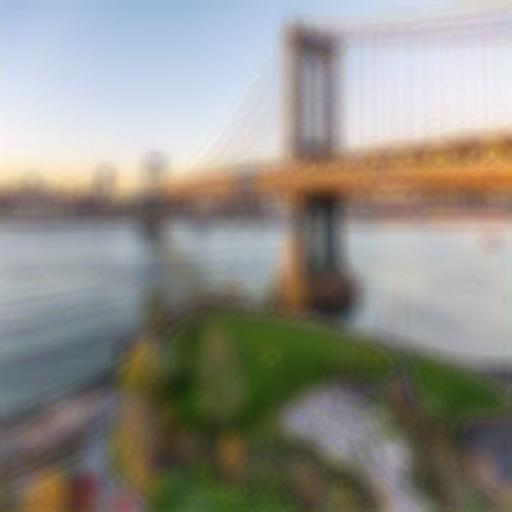
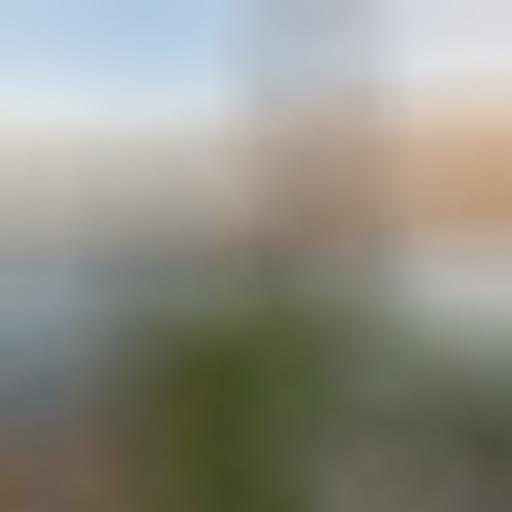
fixed issues

diff --git a/style_transfer/utils/optimizer.py b/style_transfer/utils/optimizer.py
@@ -68,8 +68,8 @@ def run_optimization(model, input_img, content_losses, style_losses,
             loss.backward()
             
             # Store loss history
-            loss_history['content'].append(weighted_content_loss.item())
-            loss_history['style'].append(weighted_style_loss.item())
+            loss_history['content'].append(weighted_content_loss)
+            loss_history['style'].append(weighted_style_loss)
             loss_history['tv'].append(weighted_tv_loss if isinstance(weighted_tv_loss, (int, float)) else weighted_tv_loss.item())
             loss_history['total'].append(loss.item())
 
@@ -81,7 +81,7 @@ def run_optimization(model, input_img, content_losses, style_losses,
             run[0] += 1
             if run[0] % 50 == 0:
                 print(f"Step {run[0]}: Style Loss: {weighted_style_loss:.4f}, "
-                      f"Content Loss: {weighted_content_loss.item():.4f}, "
+                      f"Content Loss: {weighted_content_loss:.4f}, "
                       f"TV Loss: {weighted_tv_loss if isinstance(weighted_tv_loss, (int, float)) else weighted_tv_loss.item():.4f}")
 
             return loss

diff --git a/main.py b/main.py
@@ -11,6 +11,7 @@ def api():
         content_image = request.files.get("contentImage")
         style_intensity = request.form.get("styleIntensity")
         use_transformer = request.form.get("useTransformer") != None
+        print('thresh',float(style_intensity)/100)
         if use_transformer:
             model="vit"
         else:
@@ -24,7 +25,7 @@ def api():
         if content_image:
             content_image.save("static/uploaded/content/content_uploaded.jpg")
         if style_image and content_image:
-            style_transfer(style_path="static/uploaded/style/style_uploaded.jpg", content_path="static/uploaded/content/content_uploaded.jpg",output_path="static/uploaded/output/output.jpg", style_threshold=float(style_intensity)/100,num_steps=2,model_type=model)
+            style_transfer(style_path="static/uploaded/style/style_uploaded.jpg", content_path="static/uploaded/content/content_uploaded.jpg",output_path="static/uploaded/output/output.jpg", style_threshold=float(style_intensity)/100,num_steps=1000,model_type=model)
         return redirect(url_for('result'))
 
 @app.route('/result')
